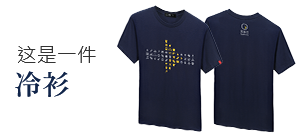
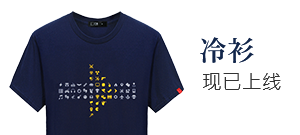
更换顶部广告的冷衫部分。

diff --git a/components/sections/spotlight-banner-controller.js b/components/sections/spotlight-banner-controller.js
@@ -31,7 +31,7 @@
                         link: "article/LEEEE/4"
                     }, {
                         imageSrc: "assets/images/spotlight/cool-t-shirt.png",
-                        link: "article/LEEEE/10"
+                        link: "article/23333/6"
                     }, {
                         imageSrc: "assets/images/spotlight/zhihu-keylol.png",
                         link: "article/HILOA/15"
